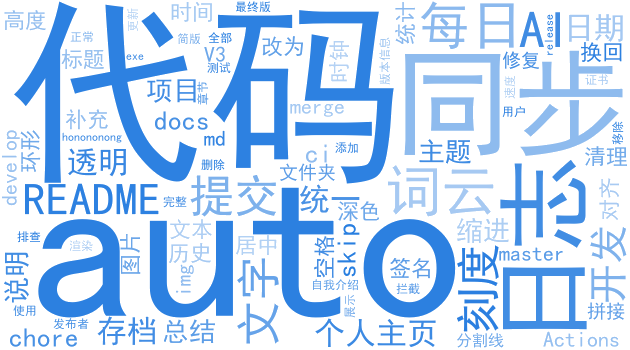
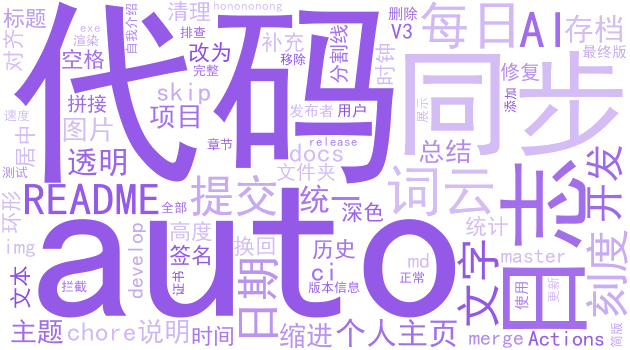
图片URL改用jsDelivr CDN(国内加载更稳)

diff --git a/.github/scripts/gen_log.py b/.github/scripts/gen_log.py
@@ -203,10 +203,11 @@ def build_log(date_str, commits, ai_text, hexc):
     lines.append("")
     lines.append("---")
     lines.append("")
+    base = "https://cdn.jsdelivr.net/gh/hong2301/hong2301@main"
     lines.append('<div align="center">'
-                 '<img src="wordcloud.png?v=%s" width="49%%" style="vertical-align:middle" alt="提交词云"/> &nbsp; '
-                 '<img src="pie.svg?v=%s" width="32.7%%" style="vertical-align:middle" alt="提交时间分布"/>'
-                 '</div>' % (date_str, date_str))
+                 '<img src="%s/wordcloud.png" width="49%%" style="vertical-align:middle" alt="提交词云"/> &nbsp; '
+                 '<img src="%s/pie.svg" width="32.7%%" style="vertical-align:middle" alt="提交时间分布"/>'
+                 '</div>' % (base, base))
     lines.append("")
     lines.append("📚 [查看历史日志](./logs/)")
     return chr(10).join(lines)

diff --git a/README.md b/README.md
@@ -1,10 +1,10 @@
-<h1 style="color:#58a6ff">2026年8月17日日志</h1>
+<h1 style="color:#bc8cff">2026年8月17日日志</h1>
 
 
-　　今天主要打磨了个人主页的每日开发日志系统。上午先给多个项目（订单采集、舆情分析等）做了代码同步，下午完成了微信公众号OCR采集器的V3.0.1版本发布并合并到master。之后大部分时间花在日志展示上：从简单的提交记录表格，逐步迭代成带AI总结、词云、时间饼图的完整报告。中间反复调整图表尺寸、透明度和配色，让饼图刻度、文字颜色能随主题自适应，最后把历史存档改成了按日期分文件夹存储。整个过程中最折腾的是饼图和词云的拼接显示，试了好几种方案才固定下来。虽然都是小细节，但看到最终效果还挺有成就感的。
+　　今天上午先更新了几次日常开发日志，下午集中打磨了「微信公众号OCR采集器」，发布了V3.0.1版本，补全了exe的版本信息，还清理了README，补充了发布者签名说明。之后花了不少精力重做个人主页，先试了带统计卡的方案但渲染有问题，最后换成有趣中文版加每日提交动态图，还加了折线图和GitHub Actions自动更新。晚上把十几个order系列项目用脚本统一同步了一遍，因为commit信息都一样，AI日志里就按项目名指代了。后半场主要在折腾个人主页的日志模块，反复调词云和饼图的尺寸、颜色、透明度和布局，从双图改为拼接单张，饼图从普通图改成环形，并加了时钟刻度，文字颜色也改成跟随主题自适应。最后修复了图片缓存问题，给URL加了日期版本参数，还顺便修了词云图的显示bug。整体今天主要是收尾和打磨，挺充实的。
 
 ---
 
-<div align="center"><img src="wordcloud.png?v=2026-08-17" width="49%" style="vertical-align:middle" alt="提交词云"/> &nbsp; <img src="pie.svg?v=2026-08-17" width="32.7%" style="vertical-align:middle" alt="提交时间分布"/></div>
+<div align="center"><img src="https://cdn.jsdelivr.net/gh/hong2301/hong2301@main/wordcloud.png" width="49%" style="vertical-align:middle" alt="提交词云"/> &nbsp; <img src="https://cdn.jsdelivr.net/gh/hong2301/hong2301@main/pie.svg" width="32.7%" style="vertical-align:middle" alt="提交时间分布"/></div>
 
 📚 [查看历史日志](./logs/)

diff --git a/logs/2026-08-17/日志.md b/logs/2026-08-17/日志.md
@@ -1,10 +1,10 @@
-<h1 style="color:#58a6ff">2026年8月17日日志</h1>
+<h1 style="color:#bc8cff">2026年8月17日日志</h1>
 
 
-　　今天主要打磨了个人主页的每日开发日志系统。上午先给多个项目（订单采集、舆情分析等）做了代码同步，下午完成了微信公众号OCR采集器的V3.0.1版本发布并合并到master。之后大部分时间花在日志展示上：从简单的提交记录表格，逐步迭代成带AI总结、词云、时间饼图的完整报告。中间反复调整图表尺寸、透明度和配色，让饼图刻度、文字颜色能随主题自适应，最后把历史存档改成了按日期分文件夹存储。整个过程中最折腾的是饼图和词云的拼接显示，试了好几种方案才固定下来。虽然都是小细节，但看到最终效果还挺有成就感的。
+　　今天上午先更新了几次日常开发日志，下午集中打磨了「微信公众号OCR采集器」，发布了V3.0.1版本，补全了exe的版本信息，还清理了README，补充了发布者签名说明。之后花了不少精力重做个人主页，先试了带统计卡的方案但渲染有问题，最后换成有趣中文版加每日提交动态图，还加了折线图和GitHub Actions自动更新。晚上把十几个order系列项目用脚本统一同步了一遍，因为commit信息都一样，AI日志里就按项目名指代了。后半场主要在折腾个人主页的日志模块，反复调词云和饼图的尺寸、颜色、透明度和布局，从双图改为拼接单张，饼图从普通图改成环形，并加了时钟刻度，文字颜色也改成跟随主题自适应。最后修复了图片缓存问题，给URL加了日期版本参数，还顺便修了词云图的显示bug。整体今天主要是收尾和打磨，挺充实的。
 
 ---
 
-<div align="center"><img src="wordcloud.png?v=2026-08-17" width="49%" style="vertical-align:middle" alt="提交词云"/> &nbsp; <img src="pie.svg?v=2026-08-17" width="32.7%" style="vertical-align:middle" alt="提交时间分布"/></div>
+<div align="center"><img src="https://cdn.jsdelivr.net/gh/hong2301/hong2301@main/wordcloud.png" width="49%" style="vertical-align:middle" alt="提交词云"/> &nbsp; <img src="https://cdn.jsdelivr.net/gh/hong2301/hong2301@main/pie.svg" width="32.7%" style="vertical-align:middle" alt="提交时间分布"/></div>
 
 📚 [查看历史日志](./logs/)
